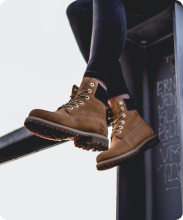
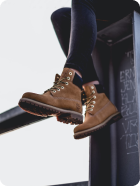
feat: import images

diff --git a/src/template/Demo.tsx b/src/template/Demo.tsx
@@ -1,4 +1,4 @@
-import React from 'react'
+import React, { useState } from 'react'
 import { Section } from '../layout/Section'
 import SyntaxHighlighter from 'react-syntax-highlighter'
 import { shadesOfPurple } from 'react-syntax-highlighter/dist/cjs/styles/hljs'
@@ -12,19 +12,52 @@ type ImageCardProps = {
 
 const ImageCard = ({ name, copy, selected }: ImageCardProps) => {
   return (
-    <div className="flex flex-col items-center">
-      <img alt={name} src={`/assets/images/demo-${name}.png`} />
-      {copy && <p className={'' + (selected && 'text-primary-500')}>copy</p>}
+    <div className={'flex flex-col items-center ' + (copy && 'cursor-pointer')}>
+      <img
+        className={'border-2 ' + (selected && 'border-primary-500 rounded-xl')}
+        alt={name}
+        src={`/assets/images/demo-${name}.png`}
+      />
+      {copy && <p className={'' + (selected && 'text-primary-500')}>{copy}</p>}
     </div>
   )
 }
 
 function SearchImages () {
+  type SelectionItem = 'shoe' | 'dress' | 'hat';
+  const [selectedItem, setSelectedItem] = useState<SelectionItem>('shoe')
   return (
     <div className="bg-gray-100 rounded-xl px-6 py-3">
       <p>{websiteCopyStrings.demoSearchImagesHeader}</p>
       <div className="flex">
-        <ImageCard name={'shoe-1'} />
+        <div onClick={() => setSelectedItem('shoe')}>
+          <ImageCard
+            name={'shoe-selected'}
+            selected={selectedItem === 'shoe'}
+            copy={websiteCopyStrings.demoSearchImagesShoesCopy}
+          />
+        </div>
+        <div onClick={() => setSelectedItem('dress')}>
+          <ImageCard
+            name={'dress-selected'}
+            selected={selectedItem === 'dress'}
+            copy={websiteCopyStrings.demoSearchImagesDressCopy}
+          />
+        </div>
+        <div onClick={() => setSelectedItem('hat')}>
+          <ImageCard
+            name={'hat-selected'}
+            selected={selectedItem === 'hat'}
+            copy={websiteCopyStrings.demoSearchImagesHatCopy}
+          />
+        </div>
+      </div>
+
+      <div className="flex">
+        <ImageCard name={`${selectedItem}-0`} />
+        <ImageCard name={`${selectedItem}-1`} />
+        <ImageCard name={`${selectedItem}-2`} />
+        <ImageCard name={`${selectedItem}-3`} />
       </div>
     </div>
   )
